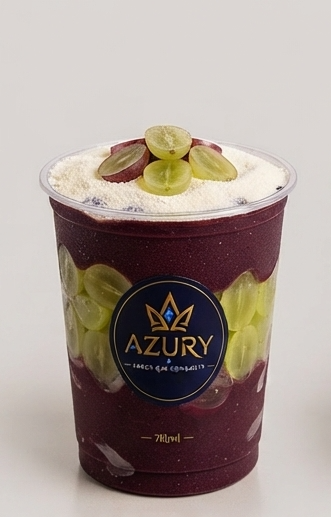
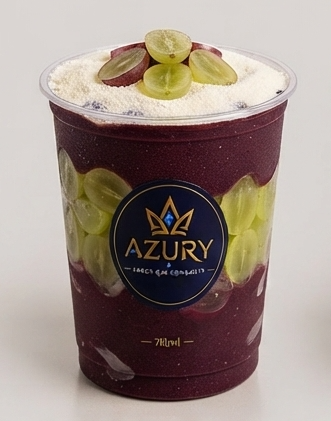
ss

diff --git a/index.html b/index.html
@@ -288,7 +288,7 @@
                 </p>
 
                 <strong>
-                    R$ 30,90.
+                    R$ 30,90
                 </strong>
 
                 <a href="https://w.app/azury" class="btn">